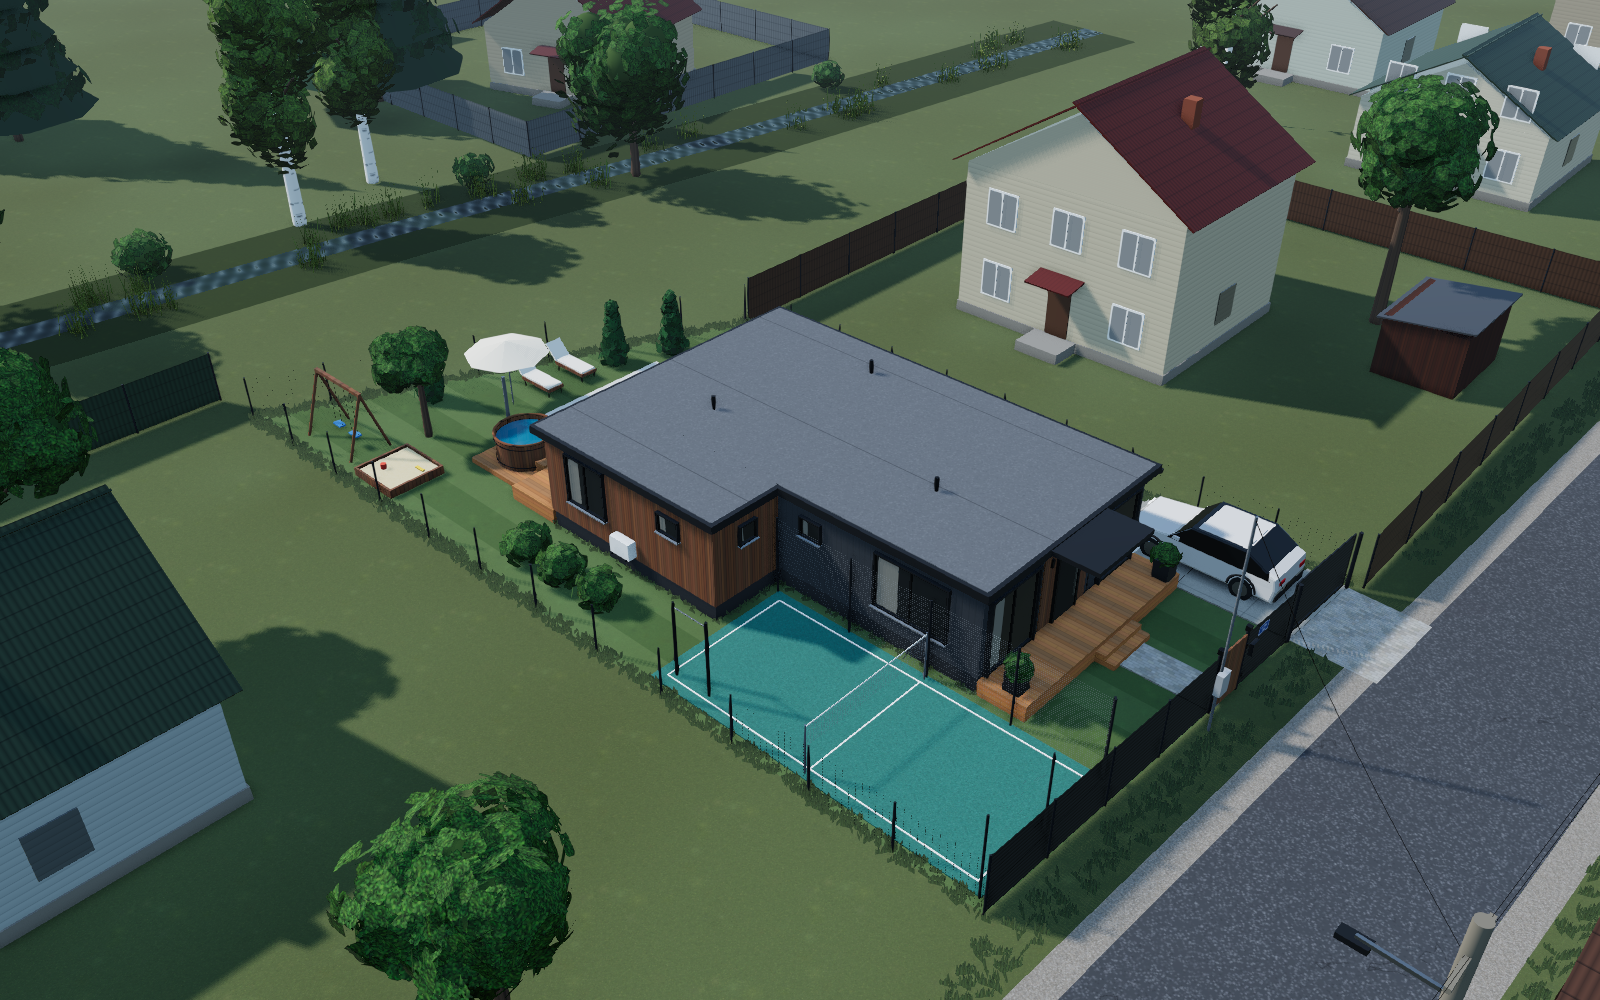
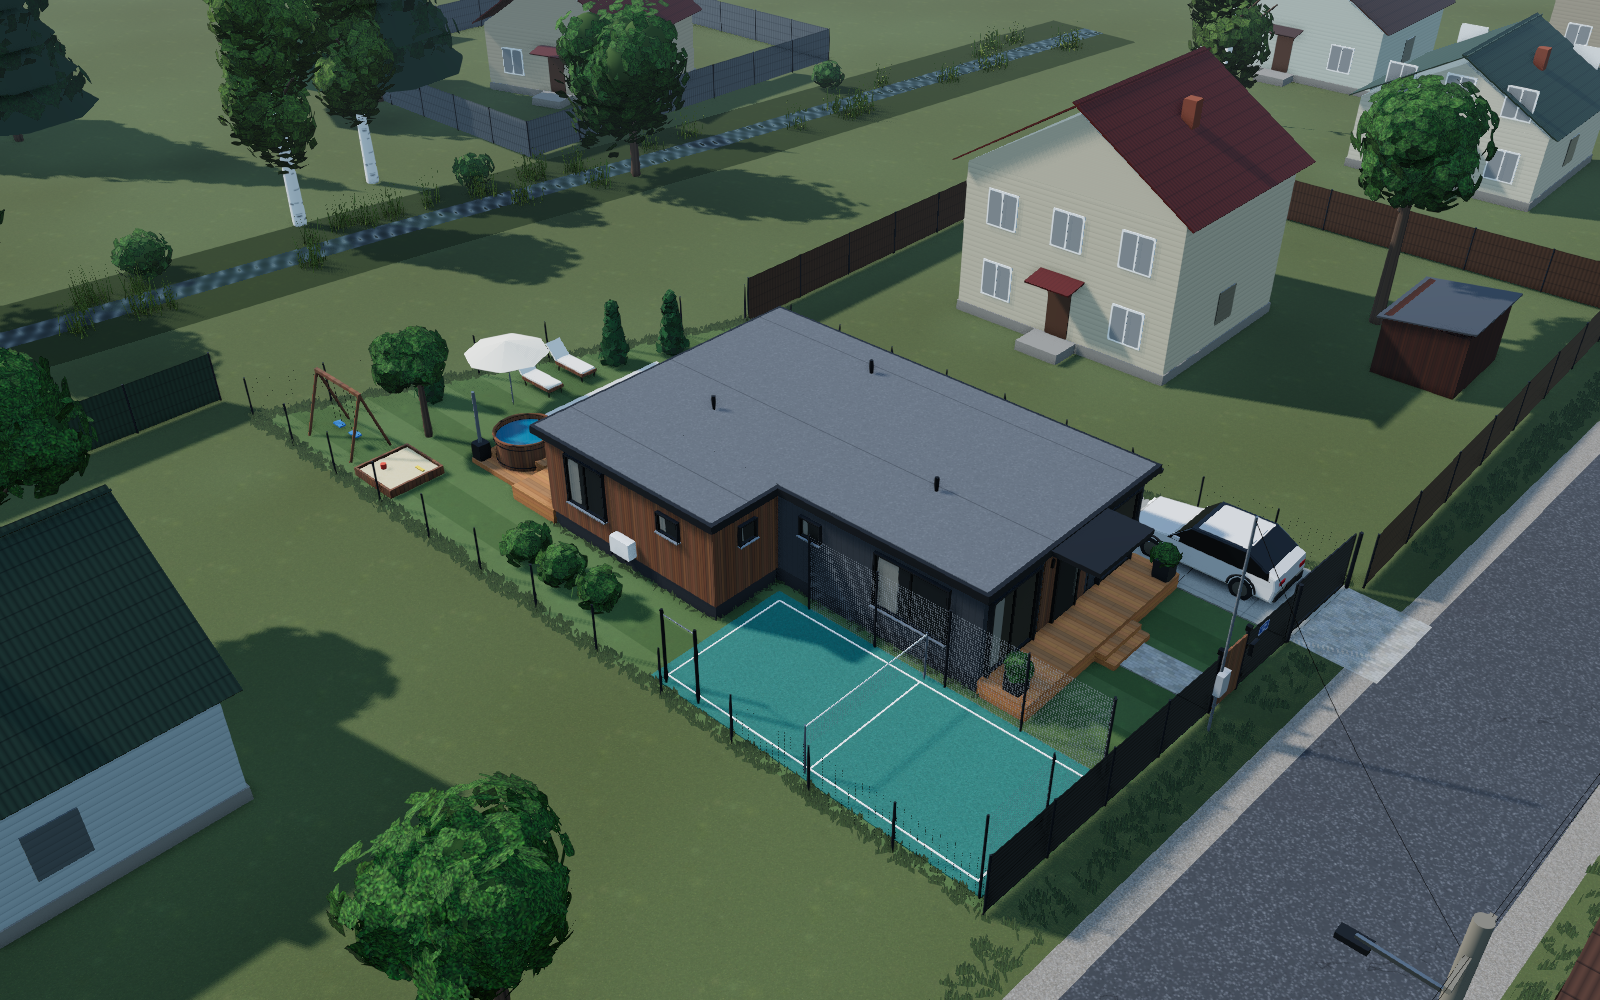
3D: правки по проверке — калитка открывается, ворота закрыты в прогулке, near-plane, шапка, ракурсы, README для Windows, офлайн-запуск
Claude-Session: https://claude.ai/code/session_017tjZczqth6Lefs1XGWvp2u

diff --git a/render3d/page.html b/render3d/page.html
@@ -1,4 +1,5 @@
 <title>Участок на 1905 года</title>
+<link rel="icon" href="data:,">
 <link rel="preconnect" href="https://fonts.googleapis.com">
 <link rel="preconnect" href="https://fonts.gstatic.com" crossorigin>
 <link rel="stylesheet" href="https://fonts.googleapis.com/css2?family=Golos+Text:wght@400;500;600;700&display=swap">
@@ -34,7 +35,7 @@
   .card {
     position: fixed; left: 16px; top: calc(env(safe-area-inset-top, 0px) + 16px);
     background: var(--panel); backdrop-filter: blur(10px); -webkit-backdrop-filter: blur(10px);
-    border: 1px solid var(--line); border-radius: 12px; padding: 10px 14px; max-width: calc(100% - 32px);
+    border: 1px solid var(--line); border-radius: 12px; padding: 10px 14px; box-sizing: border-box; max-width: calc(100% - 32px);
   }
   .card h1 { font-size: 16px; font-weight: 700; margin: 0; letter-spacing: 0.01em; text-wrap: balance; }
   .card p { margin: 2px 0 0; font-size: 12.5px; color: var(--muted); font-variant-numeric: tabular-nums; }
@@ -68,10 +69,11 @@
   .views button.walk { font-weight: 600; }
   .walkbar {
     position: fixed; left: 50%; transform: translateX(-50%); top: calc(env(safe-area-inset-top, 0px) + 16px);
-    display: flex; align-items: center; gap: 10px; max-width: calc(100% - 32px);
+    display: flex; align-items: center; gap: 10px; box-sizing: border-box; width: max-content; max-width: calc(100% - 32px);
     background: var(--panel); backdrop-filter: blur(10px); -webkit-backdrop-filter: blur(10px);
     border: 1px solid var(--line); border-radius: 12px; padding: 8px 8px 8px 14px; font-size: 13px;
   }
+  .walkbar[hidden] { display: none; }
   .walkbar kbd { font: 600 11.5px/1 var(--num); border: 1px solid var(--line); border-bottom-width: 2px; border-radius: 4px; padding: 2px 5px; background: var(--chip); }
   .walkbar button { font: inherit; font-weight: 600; border: 0; border-radius: 999px; padding: 7px 12px; background: var(--accent); color: var(--accent-ink); cursor: pointer; white-space: nowrap; }
   .walkbar button:focus-visible { outline: 2px solid var(--accent); outline-offset: 2px; }
@@ -95,13 +97,13 @@
 <canvas id="c" aria-label="3D-модель участка"></canvas>
 <div class="loading" id="loading">Строю участок…</div>
 <div class="walkbar" id="walkbar" hidden>
-  <span id="walkHelp"><kbd>W</kbd><kbd>A</kbd><kbd>S</kbd><kbd>D</kbd> идти · мышь — смотреть (клик по сцене) · <kbd>Shift</kbd> бегом</span>
+  <span id="walkHelp"><kbd>W</kbd><kbd>A</kbd><kbd>S</kbd><kbd>D</kbd> идти · мышь — смотреть (клик по сцене) · <kbd>Shift</kbd> бегом · <kbd>Esc</kbd> — отпустить мышь</span>
   <button id="walkExit" type="button">Выйти</button>
 </div>
 <div class="crosshair" id="crosshair" hidden></div>
 <header class="card">
   <h1>Участок на ул. 1905 года</h1>
-  <p>Одинцово · 4.5 сот · дом 122.5 м² (7 модулей DP-Module) · парковка 6 × 5.7 м</p>
+  <p>Одинцово · 4.5 сот · дом 122.5 м² (7 модулей DP-Module) · парковка 14 × 3.3 м на 2 авто</p>
 </header>
 <div class="dock">
   <section class="sheet" aria-label="Управление видом">
@@ -157,6 +159,14 @@
       if (!on) { var g = document.querySelector('.views'); press(g, document.getElementById('v-aerial')); }
     });
     document.getElementById('walkExit').addEventListener('click', function () { if (window.plot3d) window.plot3d.walk(false); });
+    setTimeout(function () {                    // three.js не загрузился (нет интернета / CDN недоступен)
+      if (window.plot3d) return;
+      var el = document.getElementById('loading');
+      if (/^(localhost|127\.|192\.168\.|10\.)/.test(location.hostname) && !/local\.html$/.test(location.pathname)) {
+        el.innerHTML = 'Не удаётся загрузить three.js с CDN. Откройте <a href="local.html">офлайн-версию</a> (нужен npm install).';
+        el.style.pointerEvents = 'auto';
+      } else el.textContent = 'Не удаётся загрузить 3D. Проверьте интернет и обновите страницу.';
+    }, 20000);
     document.addEventListener('plot3d-ready', function () {
       document.getElementById('loading').hidden = true;
       applySun();

diff --git a/plan.py b/plan.py
@@ -4,6 +4,8 @@ import math
 import os
 import sys
 
+os.chdir(os.path.dirname(os.path.abspath(__file__)))   # пути plan.svg и render3d/scene.json — от корня репозитория
+
 AB, BC, CD, DA, AREA = 30.7, 16.3, 24.2, 18.0, 450.0  # низ, дорога, верх, лево
 SETBACK = 3.0          # отступ дома от границ (по запросу)
 HOUSE_AREA = 105.0
@@ -103,7 +105,7 @@ TERRACES = [
     ("терраса", 14.0, 2.5, 15.5, 10.0),  # у дороги, во всю стену гостиной и кухни-столовой
     ("терраса", -2.0, 0.0, 0.0, 10.0),   # в сад, во всю стену мастер-спальни, коридора и спальни
 ]
-DOORS = [("вход", 14.0, 6.2, 14.75, 5.0), ("в сад", 0.0, 5.35, -1.0, 4.1)]
+DOORS = [("вход", 14.0, 6.2, 14.75, 5.0), ("в сад", 0.0, 5.5, -1.0, 4.25)]
 
 
 def overlap(p1, p2, gap=0.0):
@@ -425,7 +427,7 @@ el.append(f'<text x="20" y="{y0-30}" font-size="14" font-weight="bold" font-fami
 el.append(f'<text x="20" y="{y0+46}" font-size="13" fill="#0b5cad" font-family="sans-serif">синие размеры — расстояние от стены дома / края террасы до забора</text>')
 el.append(f'<text x="20" y="{y0+68}" font-size="13" fill="#555" font-family="sans-serif">зеркальный вариант: мастер-блок с южной стороны, жилая зона у дороги · парковка: 2 авто друг за другом вдоль северного забора, бетон от забора до дома, въезд через ворота · детская зона в юго-западном углу</text>')
 el.append("</svg>")
-open("plan.svg", "w").write("\n".join(el))
+open("plan.svg", "w", encoding="utf-8").write("\n".join(el))
 
 print("угол при A:", round(math.degrees(best_a), 1))
 print("участок:", [tuple(round(c, 2) for c in p) for p in P], "площадь", round(area(P), 1))
@@ -454,5 +456,5 @@ scene = {
     "shrubs": SHRUBS,
 }
 os.makedirs("render3d", exist_ok=True)
-with open("render3d/scene.json", "w") as f:
+with open("render3d/scene.json", "w", encoding="utf-8") as f:
     json.dump(scene, f, ensure_ascii=False, indent=1)

diff --git a/README.md b/README.md
@@ -9,7 +9,7 @@
 
 | Что | Где |
 |---|---|
-| 2D-схема (размеры, отступы 3 м, площади) | `plan.py` → `plan.png`, `plan.svg` |
+| 2D-схема (размеры, отступы 3 м, площади) | `plan.py` → `plan.svg` (`plan.png` — её картинка) |
 | 3D-модель и прогулка | `render3d/` |
 | Готовые кадры | `render3d/renders/*.png` |
 
@@ -20,11 +20,16 @@
 ```bash
 git clone https://github.com/extrrr1213/dom.git
 cd dom
-git checkout claude/serene-carson-q9lfvg   # пока изменения не влиты в основную ветку
+git checkout claude/serene-carson-q9lfvg
 cd render3d
-npm install        # three.js и (по желанию) рендер кадров
-npm start          # соберёт страницу и откроет http://localhost:5173/dist/index.html
+npm install
+npm start
 ```
+
+`git checkout` нужен, пока изменения не влиты в основную ветку. `npm install` ставит three.js и (для рендера кадров) playwright-core, браузер он не скачивает. `npm start` собирает страницу, запускает сервер и открывает её в браузере: после `npm install` это офлайн-версия http://localhost:5173/dist/local.html (three.js из `node_modules`), без него — http://localhost:5173/dist/index.html (three.js с CDN). Python для этого не нужен. Сервер работает, пока открыт терминал; остановить — `Ctrl+C`.
+
+Если порт 5173 занят (например, другим проектом на Vite), запустите `npm start -- 5174` и откройте адрес с этим портом.
+С телефона в той же Wi‑Fi сети: `http://<IP компьютера>:5173/dist/index.html`. Windows может спросить разрешение для Node.js в брандмауэре.
 
 Затем нажмите **«Прогулка»** внизу экрана.
 
@@ -35,18 +40,18 @@ npm start          # соберёт страницу и откроет http://lo
 | Бегом | `Shift` | джойстик до упора |
 | Выйти из прогулки | кнопка «Выйти» вверху | кнопка «Выйти» |
 
-Прогулка начинается у калитки, лицом к входу. Сквозь дом, машины, бассейн, деревья и заборы пройти нельзя. На террасы можно подняться. Калитка и ворота открыты, через них можно выйти на улицу.
+Прогулка начинается у калитки, лицом к входу. Сквозь дом, машины, бассейн, деревья и заборы пройти нельзя. На террасы можно подняться. Калитка открыта, через неё можно выйти на улицу. Откатные ворота во время прогулки закрыты: открытое полотно заезжает за калитку.
 
 Другие возможности страницы:
 - ракурсы: «С дрона», «Задний двор», «У бассейна», «Въезд», «С улицы», «План сверху»;
 - ползунок солнца (время суток) и месяц: май, июнь или сентябрь. Тени считаются по реальному положению солнца для Одинцово (55.68° с. ш.).
 
-`npm start` берёт three.js с CDN, поэтому нужен интернет. Для работы без интернета после `npm install` откройте `http://localhost:5173/dist/local.html`.
+Версия `dist/index.html` берёт three.js с CDN (cdn.jsdelivr.net), поэтому ей нужен интернет. Если CDN недоступен, страница через 20 секунд предложит перейти на `dist/local.html`: там three.js из `node_modules`, интернет не нужен.
 
 ## Изменить расстановку
 
 1. Поправьте `plan.py`: размеры дома, комнаты, террасы, парковку, бассейн и т. д.
-2. Выполните `python3 plan.py`. Он перерисует `plan.png`/`plan.svg` и выгрузит геометрию в `render3d/scene.json`.
+2. Выполните `python3 plan.py` (на Windows — `py plan.py`), сторонние пакеты не нужны. Он перерисует `plan.svg` и выгрузит геометрию в `render3d/scene.json`. `plan.png` — растровая копия `plan.svg`, её `plan.py` не обновляет.
 3. Выполните `cd render3d && npm run build` и обновите страницу в браузере.
 
 Внешний вид 3D (материалы, окна, деревья, соседи, камеры) задаётся в `render3d/scene.js`, интерфейс — в `render3d/page.html`.
@@ -57,4 +62,4 @@ npm start          # соберёт страницу и откроет http://lo
 
 Вставьте в новую сессию Claude Code на своём компьютере:
 
-> Склонируй репозиторий https://github.com/extrrr1213/dom и переключись на ветку `claude/serene-carson-q9lfvg`. Зайди в папку `render3d`, выполни `npm install` и `npm start`, чтобы открылась 3D-модель участка в браузере (http://localhost:5173/dist/index.html). Если Node.js не установлен — помоги установить. Потом подскажи, как включить режим «Прогулка», чтобы походить по участку.
+> Склонируй репозиторий https://github.com/extrrr1213/dom и переключись на ветку `claude/serene-carson-q9lfvg`. Зайди в папку `render3d`, выполни `npm install` и `npm start`, чтобы открылась 3D-модель участка в браузере (http://localhost:5173/dist/local.html). Если Node.js не установлен — помоги установить. Потом подскажи, как включить режим «Прогулка», чтобы походить по участку.
